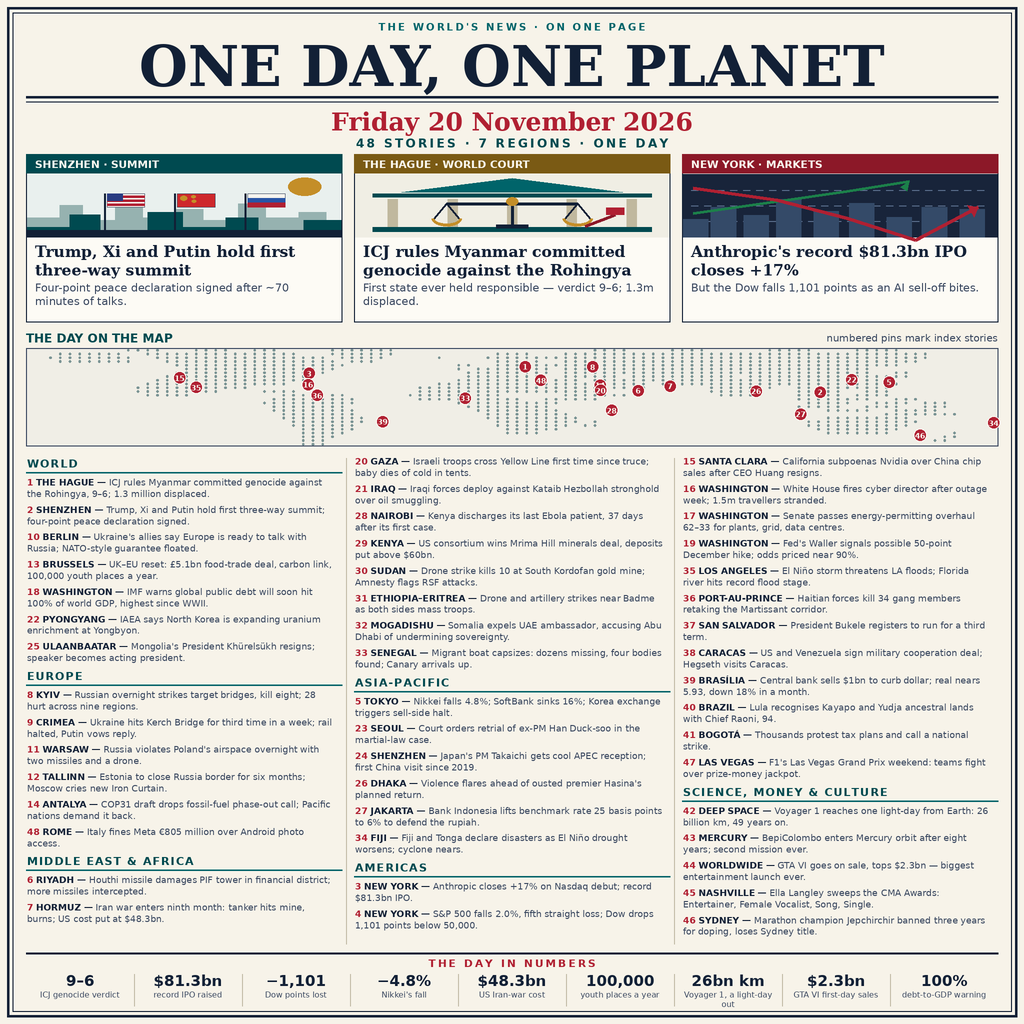
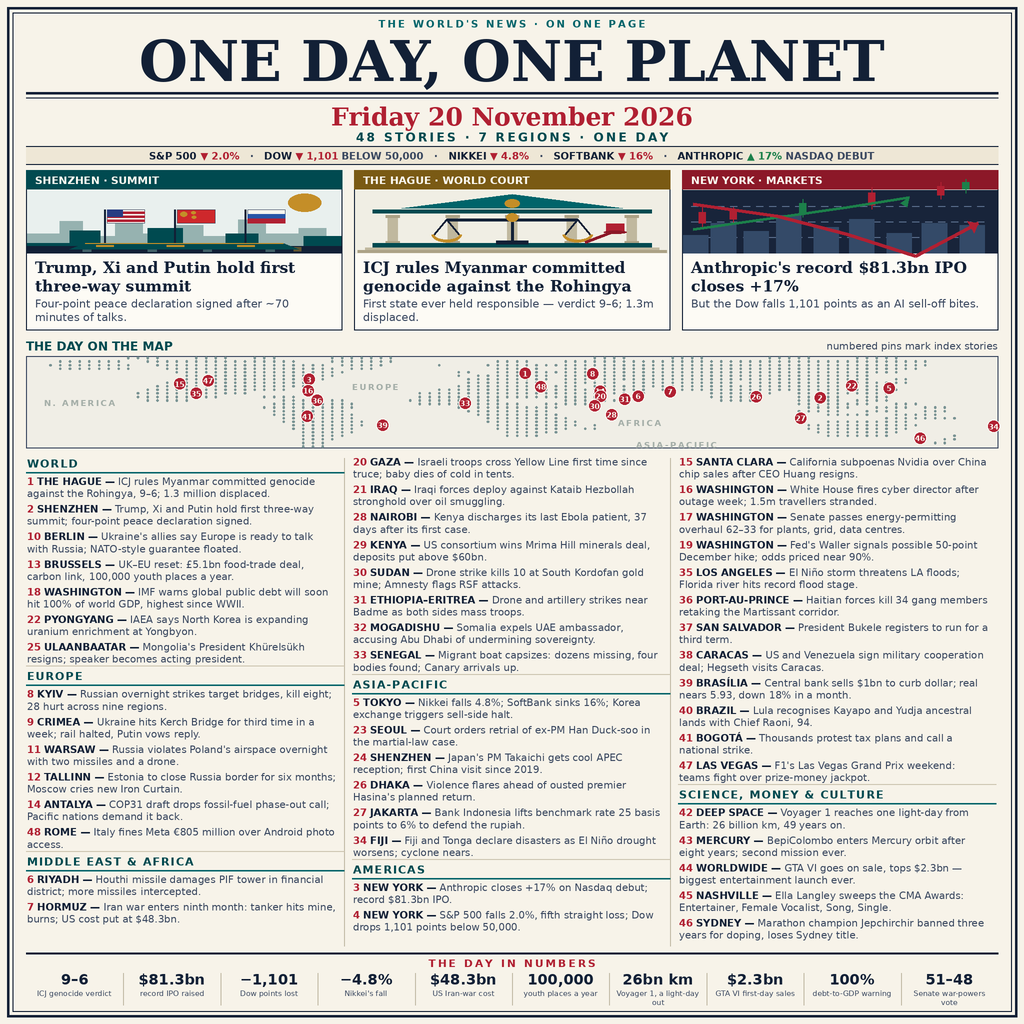
v2 refinement: markets ticker, richer lead scenes, larger index, 26 map pins + region labels, 10th Day-in-Numbers figure

diff --git a/main.py b/main.py
@@ -13,6 +13,11 @@ entry.png byte-for-byte, so the output is always a valid image.
 Deterministic: no network, no clock, no randomness — two runs in the
 same environment write identical bytes.  Standard library only, apart
 from the optional Pillow import, which is guarded.
+
+v2 refinement (same day, same 48 stories): a markets ticker strip
+under the masthead, richer lead-panel scenes, a larger story index
+(tighter leading and gutters), four more map pins with faint region
+labels, and a tenth Day-in-Numbers figure.
 """
 
 import os
@@ -214,6 +219,7 @@ NUMBERS = [
     ("26bn km", "Voyager 1, a light-day out"),
     ("$2.3bn", "GTA VI first-day sales"),
     ("100%", "debt-to-GDP warning"),
+    ("51\u201348", "Senate war-powers vote"),
 ]
 
 # --------------------------------------------------------------------------
@@ -262,9 +268,11 @@ PINS = [
     (6, 46.7, 24.6), (7, 56.3, 26.5), (8, 30.5, 50.4), (14, 30.7, 36.9),
     (15, -122.0, 37.4), (16, -77.0, 38.9), (20, 34.3, 31.4),
     (22, 125.8, 39.0), (26, 90.4, 23.8), (27, 106.8, -6.2),
-    (28, 36.8, -1.3), (33, -17.4, 14.7), (34, 178.4, -17.6),
+    (28, 36.8, -1.3), (30, 30.5, 11.0), (31, 39.8, 14.7),
+    (33, -17.4, 14.7), (34, 178.4, -17.6),
     (35, -118.2, 34.0), (36, -72.3, 18.5), (39, -47.9, -15.8),
-    (46, 151.2, -33.9), (48, 12.5, 41.9),
+    (41, -74.1, 4.6), (46, 151.2, -33.9), (47, -115.1, 36.2),
+    (48, 12.5, 41.9),
 ]
 
 # --------------------------------------------------------------------------
@@ -413,6 +421,11 @@ def scene_summit(d, x, y, w, h):
     polygon(d, pts + [(sx(250), sy(90)), (sx(0), sy(90))], fill=TEAL_DARK)
     # ground
     rect(d, (x, sy(80), x + w, y + h), fill=INK)
+    # skyline reflections shimmering in the harbour strip
+    for rx in (44, 96, 140, 190):
+        rect(d, (sx(rx), sy(81.5), sx(rx + 7), sy(88)),
+             fill=(64, 96, 104))
+    rect(d, (sx(212), sy(81.5), sx(218), sy(87)), fill=(96, 84, 48))
     # three flag poles with flags (US, China, Russia — simplified)
     for i, cxd in enumerate((62, 118, 174)):
         cx = sx(cxd)
@@ -443,6 +456,13 @@ def scene_summit(d, x, y, w, h):
                  fill=(40, 84, 166))
             rect(d, (fx0, fy0 + 2 * fh / 3, fx0 + fw, fy0 + fh),
                  fill=CRIMSON)
+    # conference table in front of the flags, with three name plates
+    polygon(d, [(sx(46), sy(76)), (sx(204), sy(76)), (sx(216), sy(84)),
+                (sx(34), sy(84))], fill=TEAL_DARK)
+    line(d, [(sx(46), sy(76)), (sx(204), sy(76))], fill=GOLD,
+         width=S(1.2))
+    for cxd in (62, 118, 174):
+        rect(d, (sx(cxd - 7), sy(78.5), sx(cxd + 7), sy(81)), fill=GOLD)
 
 
 def scene_court(d, x, y, w, h):
@@ -458,15 +478,21 @@ def scene_court(d, x, y, w, h):
 
     rect(d, (x, y, x + w, y + h), fill=(240, 238, 228))
     cx = sx(125)
-    # pediment
+    # pediment, with a gold disc at its centre
     polygon(d, [(sx(37), sy(26)), (sx(213), sy(26)), (sx(125), sy(6))],
             fill=TEAL)
+    ellipse(d, (sx(119), sy(13), sx(131), sy(25)), fill=GOLD)
     rect(d, (sx(14), sy(28), sx(236), sy(33)), fill=TEAL_DARK)
-    # columns
+    # columns with capitals and bases
     for k in range(5):
         cxx = sx(30 + k * 47.5)
         rect(d, (cxx - 5, sy(36), cxx + 5, sy(76)), fill=(192, 184, 158))
+        rect(d, (cxx - 7, sy(36), cxx + 7, sy(39.5)), fill=(172, 162, 134))
+        rect(d, (cxx - 7, sy(72.5), cxx + 7, sy(76)), fill=(172, 162, 134))
     rect(d, (sx(14), sy(76), sx(236), sy(82)), fill=TEAL_DARK)
+    # two entrance steps below the base
+    rect(d, (sx(8), sy(82), sx(242), sy(85.5)), fill=(192, 184, 158))
+    rect(d, (sx(2), sy(85.5), sx(248), sy(89)), fill=(172, 162, 134))
     # scales: pillar, beam, two pans
     line(d, [(cx, sy(38)), (cx, sy(72))], fill=INK, width=S(3))
     line(d, [(sx(73), sy(42)), (sx(177), sy(42))], fill=INK, width=S(3))
@@ -482,6 +508,7 @@ def scene_court(d, x, y, w, h):
     line(d, [(sx(183), sy(74)), (sx(207), sy(58))], fill=CRIMSON_DARK,
          width=S(3))
     rect(d, (sx(200), sy(48), sx(214), sy(58)), fill=CRIMSON)
+    ellipse(d, (sx(198), sy(58), sx(216), sy(62)), fill=CRIMSON_DARK)
 
 
 def scene_markets(d, x, y, w, h):
@@ -502,6 +529,17 @@ def scene_markets(d, x, y, w, h):
         px = x + bx * w / 250.0
         rect(d, (px, y + h - bh, px + w * 20 / 250.0, y + h),
              fill=(52, 74, 104))
+    # candlesticks floating above the skyline (mostly red on the day)
+    candles = [(0.06, 30, 16, False), (0.16, 34, 12, False),
+               (0.38, 40, 14, True), (0.60, 48, 18, False),
+               (0.82, 58, 13, False), (0.90, 64, 10, True)]
+    for fx, base_h, hgt, up in candles:
+        cxp = x + fx * w
+        col = GREEN if up else CRIMSON
+        line(d, [(cxp, y + h - base_h - hgt), (cxp, y + h - base_h + 4)],
+             fill=col, width=S(1.2))
+        rect(d, (cxp - 3.5, y + h - base_h - hgt * 0.7,
+                 cxp + 3.5, y + h - base_h), fill=col)
     # rising green line (the IPO)
     up = [(x + 10, y + h - 24), (x + w * 0.3, y + h - 36),
           (x + w * 0.52, y + h - 46), (x + w * 0.72, y + h - 56)]
@@ -521,9 +559,9 @@ def scene_markets(d, x, y, w, h):
 # --------------------------------------------------------------------------
 
 INDEX_Y0 = 456
-INDEX_Y1 = 944
-COL_X = [MARGIN, MARGIN + 328, MARGIN + 656]
-COL_W = 308
+INDEX_Y1 = 946
+COL_X = [MARGIN, MARGIN + 326, MARGIN + 652]
+COL_W = 310
 
 
 def rich_lines(d, segments, max_w, space_font):
@@ -561,9 +599,9 @@ def story_segments(fonts, size, num, place, headline):
 
 def plan_index(d, fonts, size):
     """Return placements [(kind, col, y, payload)] or None if it overflows."""
-    lh = size * 1.27
-    gap = 4.5
-    header_h = 21
+    lh = size * 1.21
+    gap = 3.4
+    header_h = 19.5
     placements = []
     col = 0
     y = INDEX_Y0
@@ -610,20 +648,44 @@ def render(Image, ImageDraw, ImageFont):
     rect(d, (12.5, 12.5, W - 12.5, H - 12.5), outline=RULE, width=S(0.75))
 
     # ---------------- masthead ----------------
-    tracked(d, (W / 2, 21), "THE WORLD'S NEWS \u00b7 ON ONE PAGE",
+    tracked(d, (W / 2, 18), "THE WORLD'S NEWS \u00b7 ON ONE PAGE",
             fonts.get("sans_b", 10), TEAL, 2.2, anchor="ma")
     title = "ONE DAY, ONE PLANET"
     tsize = 56
     while tsize > 30 and text_w(d, title, fonts.get("serif_b", tsize)) > 950:
         tsize -= 2
-    text(d, (W / 2, 33), title, fonts.get("serif_b", tsize), fill=INK,
+    text(d, (W / 2, 28), title, fonts.get("serif_b", tsize), fill=INK,
          anchor="ma")
-    line(d, [(MARGIN, 97), (W - MARGIN, 97)], fill=RULE, width=S(2.5))
-    line(d, [(MARGIN, 101.5), (W - MARGIN, 101.5)], fill=RULE, width=S(1))
-    text(d, (W / 2, 107), "Friday 20 November 2026",
+    line(d, [(MARGIN, 93), (W - MARGIN, 93)], fill=RULE, width=S(2.5))
+    line(d, [(MARGIN, 97.5), (W - MARGIN, 97.5)], fill=RULE, width=S(1))
+    text(d, (W / 2, 102), "Friday 20 November 2026",
          fonts.get("serif_b", 25), fill=CRIMSON, anchor="ma")
-    tracked(d, (W / 2, 136), "48 STORIES \u00b7 7 REGIONS \u00b7 ONE DAY",
+    tracked(d, (W / 2, 130), "48 STORIES \u00b7 7 REGIONS \u00b7 ONE DAY",
             fonts.get("sans_b", 12), TEAL_DARK, 2.4, anchor="ma")
+
+    # ---------------- markets ticker strip ----------------
+    rect(d, (MARGIN, 146, W - MARGIN, 164), fill=PAPER_DARK)
+    line(d, [(MARGIN, 146), (W - MARGIN, 146)], fill=RULE, width=S(0.75))
+    line(d, [(MARGIN, 164), (W - MARGIN, 164)], fill=RULE, width=S(0.75))
+    ticker = [
+        ("S&P 500 ", INK), ("\u25bc 2.0%", CRIMSON),
+        ("   \u00b7   ", INK_SOFT),
+        ("DOW ", INK), ("\u25bc 1,101", CRIMSON),
+        (" BELOW 50,000", INK_SOFT),
+        ("   \u00b7   ", INK_SOFT),
+        ("NIKKEI ", INK), ("\u25bc 4.8%", CRIMSON),
+        ("   \u00b7   ", INK_SOFT),
+        ("SOFTBANK ", INK), ("\u25bc 16%", CRIMSON),
+        ("   \u00b7   ", INK_SOFT),
+        ("ANTHROPIC ", INK), ("\u25b2 17%", GREEN),
+        (" NASDAQ DEBUT", INK_SOFT),
+    ]
+    tf = fonts.get("sans_b", 10)
+    total = sum(text_w(d, s, tf) for s, _ in ticker)
+    tx = (W - total) / 2
+    for s, fill in ticker:
+        text(d, (tx, 150), s, tf, fill=fill)
+        tx += text_w(d, s, tf)
 
     # ---------------- lead panels ----------------
     leads = [
@@ -638,7 +700,7 @@ def render(Image, ImageDraw, ImageFont):
          "Anthropic's record $81.3bn IPO closes +17%",
          "But the Dow falls 1,101 points as an AI sell-off bites."),
     ]
-    lead_y, lead_h, panel_w, gap = 154, 168, 316, 12
+    lead_y, lead_h, panel_w, gap = 170, 160, 316, 12
     for i, (kicker, accent, scene, head, deck) in enumerate(leads):
         px = MARGIN + i * (panel_w + gap)
         rect(d, (px, lead_y, px + panel_w, lead_y + lead_h), fill=CARD,
@@ -658,12 +720,12 @@ def render(Image, ImageDraw, ImageFont):
             hy += 13.5
 
     # ---------------- map band ----------------
-    text(d, (MARGIN, 331), "THE DAY ON THE MAP", fonts.get("sans_b", 12),
+    text(d, (MARGIN, 339), "THE DAY ON THE MAP", fonts.get("sans_b", 12),
          fill=TEAL_DARK)
     note = "numbered pins mark index stories"
-    text(d, (W - MARGIN, 332), note, fonts.get("sans", 10),
+    text(d, (W - MARGIN, 340), note, fonts.get("sans", 10),
          fill=INK_SOFT, anchor="ra")
-    map_y0, map_y1 = 348, 446
+    map_y0, map_y1 = 356, 448
     rect(d, (MARGIN, map_y0, W - MARGIN, map_y1), fill=(240, 238, 230),
          outline=INK_SOFT, width=S(0.75))
     cell_w = (W - 2 * MARGIN) / MAP_COLS
@@ -675,9 +737,16 @@ def render(Image, ImageDraw, ImageFont):
             for c in range(c0, c1 + 1):
                 cx = MARGIN + (c + 0.5) * cell_w
                 ellipse(d, (cx - r, cy - r, cx + r, cy + r), fill=MAP_DOT)
+    # faint region labels in the ocean space
+    lab_f = fonts.get("sans_b", 8.5)
+    lab_fill = (164, 174, 168)
+    for lx, ly, lab in ((44, 398, "N. AMERICA"), (352, 382, "EUROPE"),
+                        (618, 418, "AFRICA"), (636, 440, "ASIA-PACIFIC")):
+        tracked(d, (lx, ly), lab, lab_f, lab_fill, 1.6)
     nudges = {3: (-3, -5), 16: (4, 5), 15: (-3, -3), 35: (3, 4),
               8: (-2, -4), 14: (5, 4), 48: (-5, 3), 20: (-4, 5),
-              7: (6, -3), 1: (0, -3)}
+              7: (6, -3), 1: (0, -3), 31: (5, -4), 41: (-5, 6),
+              47: (7, -7)}
     for num, lon, lat in PINS:
         px = MARGIN + (lon + 180) / 360.0 * (W - 2 * MARGIN)
         py = map_y0 + (80 - lat) / 128.0 * (map_y1 - map_y0)
@@ -689,21 +758,24 @@ def render(Image, ImageDraw, ImageFont):
              fill=(250, 248, 240), anchor="ma")
 
     # ---------------- story index ----------------
-    for sep_x in (346, 674):
+    for sep_x in (344, 670):
         line(d, [(sep_x, INDEX_Y0 + 2), (sep_x, INDEX_Y1)],
              fill=(196, 188, 168), width=S(0.75))
     chosen = None
-    for size in (11.5, 11, 10.5, 10, 9.5, 9):
+    for size in (12, 11.5, 11, 10.5, 10, 9.5, 9):
         chosen = plan_index(d, fonts, size)
         if chosen is not None:
             break
     if chosen is None:
         raise RuntimeError("index does not fit")
     size = size
-    lh = size * 1.27
+    lh = size * 1.21
     for kind, col, y, payload in chosen:
         x0 = COL_X[col]
         if kind == "header":
+            if y > INDEX_Y0 + 1:
+                line(d, [(x0, y - 3), (x0 + COL_W + 8, y - 3)],
+                     fill=(206, 198, 178), width=S(0.75))
             tracked(d, (x0 + 1, y + 1), payload, fonts.get("sans_b", 11),
                     TEAL_DARK, 1.1)
             line(d, [(x0, y + 16.5), (x0 + COL_W + 8, y + 16.5)],
@@ -730,16 +802,16 @@ def render(Image, ImageDraw, ImageFont):
     for i, (value, label) in enumerate(NUMBERS):
         cx = MARGIN + (i + 0.5) * cell_w_n
         if i:
-            line(d, [(MARGIN + i * cell_w_n, 974),
-                     (MARGIN + i * cell_w_n, 1006)],
+            line(d, [(MARGIN + i * cell_w_n, 973),
+                     (MARGIN + i * cell_w_n, 1005)],
                  fill=(196, 188, 168), width=S(0.75))
-        text(d, (cx, 972), value, fonts.get("sans_b", 15), fill=INK,
+        text(d, (cx, 971), value, fonts.get("sans_b", 14.5), fill=INK,
              anchor="ma")
-        ly = 990
-        for ln in wrap(d, label, fonts.get("sans", 8), cell_w_n - 8):
-            text(d, (cx, ly), ln, fonts.get("sans", 8), fill=INK_SOFT,
+        ly = 989
+        for ln in wrap(d, label, fonts.get("sans", 7.5), cell_w_n - 8):
+            text(d, (cx, ly), ln, fonts.get("sans", 7.5), fill=INK_SOFT,
                  anchor="ma")
-            ly += 9.5
+            ly += 9
 
     return img.resize((S(W) // SS, S(H) // SS), Image.LANCZOS)
 

diff --git a/README.md b/README.md
@@ -17,11 +17,14 @@ A one-page broadsheet that sums up the world's news of **Friday
 - three illustrated lead stories — the Shenzhen three-way summit, the
   ICJ genocide ruling on Myanmar, and Anthropic's record IPO amid a
   market sell-off;
-- a dotted world map with numbered pins marking where the day happened;
+- a markets ticker strip under the masthead with the day's index
+  moves (S&P, Dow, Nikkei, SoftBank, Anthropic's debut);
+- a dotted world map with 26 numbered pins marking where the day
+  happened, with faint region labels;
 - a numbered index of **48 stories** across 7 regions, from the ICJ and
   Hormuz to Voyager 1 reaching one light-day from Earth;
 - a "Day in Numbers" strip: 9–6, $81.3bn, −1,101, −4.8%, $48.3bn,
-  100,000, 26bn km, $2.3bn, 100%.
+  100,000, 26bn km, $2.3bn, 100%, 51–48.
 
 ## How it builds
 
@@ -40,6 +43,13 @@ programmatically with Pillow at 2× supersampling and downsampled to
 to copying the bundled `entry.png` byte-for-byte. A wording fix in
 this pass: story 27 (Jakarta) now correctly says Bank Indonesia lifted
 its benchmark rate by 25 *basis* points to 6%.
+
+v2 refinement (same day, same 48 stories): markets ticker strip under
+the masthead, one more detail layer in each lead scene (conference
+table and harbour reflections; column capitals, steps and a gavel
+block; candlesticks), a larger index via tighter leading and gutters,
+26 map pins with faint region labels, and a tenth Day-in-Numbers
+figure (51–48, the Senate war-powers vote).
 
 ## License
 
